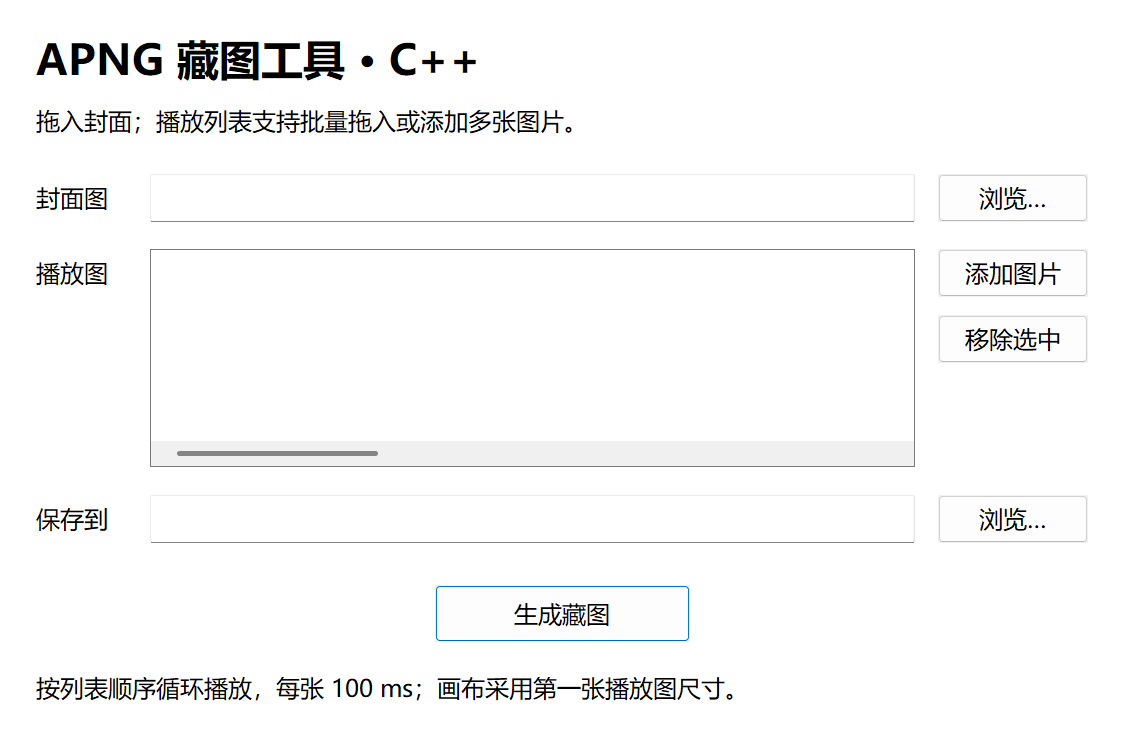
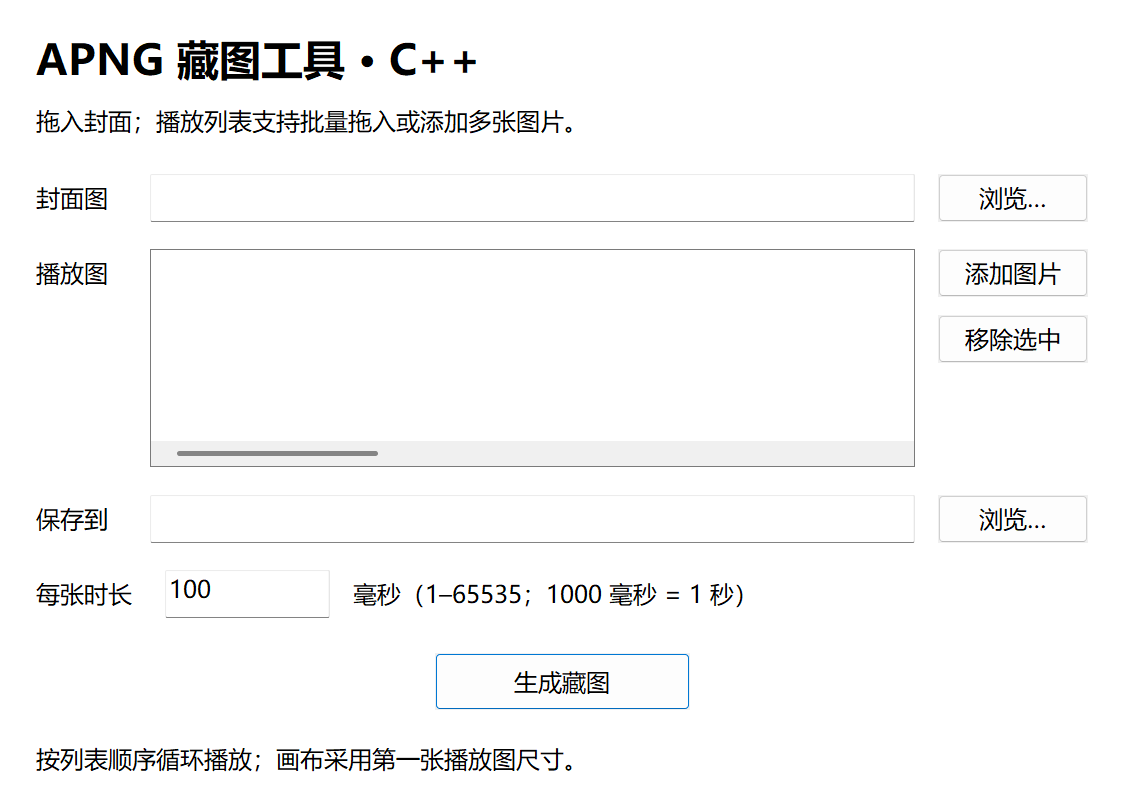
Allow configurable playback frame duration

diff --git a/cpp/main.cpp b/cpp/main.cpp
@@ -165,10 +165,10 @@ static void chunk(Bytes& out, const char* type, const Bytes& data) {
     }
     add32(out, crc ^ 0xffffffff);
 }
-static void control(Bytes& out, uint32_t& sequence, UINT w, UINT h, BYTE blend) {
+static void control(Bytes& out, uint32_t& sequence, UINT w, UINT h, BYTE blend, unsigned delayMs) {
     Bytes data;
     for (uint32_t n : {sequence++, w, h, 0u, 0u}) add32(data, n);
-    data.insert(data.end(), {0, 10, 0, 100, 0, blend});
+    data.insert(data.end(), {BYTE(delayMs >> 8), BYTE(delayMs), 3, 232, 0, blend});
     chunk(out, "fcTL", data);
 }
 static void frameData(Bytes& out, uint32_t& sequence, const Bytes& png) {
@@ -179,7 +179,7 @@ static void frameData(Bytes& out, uint32_t& sequence, const Bytes& png) {
         chunk(out, "fdAT", data);
     }
 }
-static void generate(const std::wstring& coverPath, const std::vector<std::wstring>& hiddenPaths, const std::wstring& outputPath) {
+static void generate(const std::wstring& coverPath, const std::vector<std::wstring>& hiddenPaths, const std::wstring& outputPath, unsigned delayMs = 100) {
     if (_wcsicmp(fs::path(outputPath).extension().c_str(), L".png") != 0)
         throw std::runtime_error("Output filename must end in .png.");
     Com<IWICImagingFactory> factory;
@@ -195,15 +195,15 @@ static void generate(const std::wstring& coverPath, const std::vector<std::wstri
     chunk(out, "acTL", animation);
     chunk(out, "IDAT", pngData(factory.p, cover));
     uint32_t sequence = 0;
-    control(out, sequence, hidden.width, hidden.height, 0);
+    control(out, sequence, hidden.width, hidden.height, 0, delayMs);
     frameData(out, sequence, pngData(factory.p, hidden));
     for (size_t i = 1; i < hiddenPaths.size(); ++i) {
         auto next = fit(factory.p, load(factory.p, hiddenPaths[i]), hidden.width, hidden.height);
-        control(out, sequence, hidden.width, hidden.height, 0);
+        control(out, sequence, hidden.width, hidden.height, 0, delayMs);
         frameData(out, sequence, pngData(factory.p, next));
     }
     if (hiddenPaths.size() == 1) {
-        control(out, sequence, 1, 1, 1);
+        control(out, sequence, 1, 1, 1, delayMs);
         frameData(out, sequence, pngData(factory.p, Image{1, 1, Bytes(4, 0)}));
     }
     chunk(out, "IEND", {});
@@ -220,7 +220,15 @@ static void generate(const std::wstring& coverPath, const std::vector<std::wstri
     if (!ok || written != out.size()) throw std::runtime_error("Could not write the complete PNG file.");
 }
 
-static HWND inputs[3], statusLabel;
+static unsigned parseDelay(const std::wstring& value) {
+    if (value.empty() || value.size() > 5 || value.find_first_not_of(L"0123456789") != std::wstring::npos)
+        throw std::runtime_error("Frame duration must be an integer from 1 to 65535 ms.");
+    unsigned delay = static_cast<unsigned>(std::stoul(value));
+    if (delay < 1 || delay > 65535) throw std::runtime_error("Frame duration must be from 1 to 65535 ms.");
+    return delay;
+}
+
+static HWND inputs[3], statusLabel, durationInput;
 static std::vector<std::wstring> playbackPaths;
 static HFONT font, heading;
 static HINSTANCE instance;
@@ -315,8 +323,12 @@ static LRESULT CALLBACK windowProc(HWND window, UINT msg, WPARAM wp, LPARAM lp) 
             control(window, L"BUTTON", i == 1 ? L"添加图片" : L"浏览…", WS_TABSTOP | BS_PUSHBUTTON, 100 + i, 625, y, 100, 32);
         }
         control(window, L"BUTTON", L"移除选中", WS_TABSTOP | BS_PUSHBUTTON, 103, 625, 210, 100, 32);
-        control(window, L"BUTTON", L"生成藏图", WS_TABSTOP | BS_DEFPUSHBUTTON, 110, 290, 390, 170, 38);
-        statusLabel = control(window, L"STATIC", L"按列表顺序循环播放，每张 100 ms；画布采用第一张播放图尺寸。", 0, 0, 24, 448, 710, 28);
+        control(window, L"STATIC", L"每张时长", 0, 0, 24, 385, 76, 24);
+        durationInput = control(window, L"EDIT", L"100", WS_TABSTOP | ES_NUMBER | ES_AUTOHSCROLL, 203, 110, 380, 110, 32);
+        SendMessageW(durationInput, EM_SETLIMITTEXT, 5, 0);
+        control(window, L"STATIC", L"毫秒（1–65535；1000 毫秒 = 1 秒）", 0, 0, 235, 385, 450, 24);
+        control(window, L"BUTTON", L"生成藏图", WS_TABSTOP | BS_DEFPUSHBUTTON, 110, 290, 435, 170, 38);
+        statusLabel = control(window, L"STATIC", L"按列表顺序循环播放；画布采用第一张播放图尺寸。", 0, 0, 24, 495, 710, 28);
         return 0;
     }
     if (msg == WM_COMMAND) {
@@ -336,9 +348,15 @@ static LRESULT CALLBACK windowProc(HWND window, UINT msg, WPARAM wp, LPARAM lp) 
             if (paths[0].empty() || playbackPaths.empty() || paths[2].empty()) {
                 MessageBoxW(window, L"请选择封面图、至少一张播放图和保存位置。", L"信息不完整", MB_OK | MB_ICONERROR); return 0;
             }
+            unsigned delayMs;
+            try { delayMs = parseDelay(text(durationInput)); }
+            catch (const std::exception&) {
+                MessageBoxW(window, L"每张时长请输入 1–65535 的整数，单位为毫秒。", L"时长无效", MB_OK | MB_ICONERROR);
+                SetFocus(durationInput); return 0;
+            }
             SetWindowTextW(statusLabel, L"正在生成，请稍候…"); UpdateWindow(window); SetCursor(LoadCursorW(nullptr, IDC_WAIT));
             try {
-                generate(paths[0], playbackPaths, paths[2]);
+                generate(paths[0], playbackPaths, paths[2], delayMs);
                 SetWindowTextW(statusLabel, L"生成完成。");
                 MessageBoxW(window, (L"已保存到：\n" + paths[2]).c_str(), L"生成完成", MB_OK | MB_ICONINFORMATION);
             } catch (const std::exception& e) {
@@ -362,8 +380,11 @@ int WINAPI wWinMain(HINSTANCE module, HINSTANCE, PWSTR, int show) {
     if (argc != 1) {
         int code = 0;
         try {
-            if (argc < 4) throw std::runtime_error("Usage: QQ-APNG-Disguise-CPP.exe cover frame1 [frame2 ...] output.png");
-            generate(argv[1], std::vector<std::wstring>(argv + 2, argv + argc - 1), argv[argc - 1]);
+            int first = 1;
+            unsigned delayMs = 100;
+            if (argc > 2 && std::wstring(argv[1]) == L"--delay-ms") { delayMs = parseDelay(argv[2]); first = 3; }
+            if (argc - first < 3) throw std::runtime_error("Usage: QQ-APNG-Disguise-CPP.exe [--delay-ms 100] cover frame1 [frame2 ...] output.png");
+            generate(argv[first], std::vector<std::wstring>(argv + first + 1, argv + argc - 1), argv[argc - 1], delayMs);
         } catch (const std::exception& e) { std::fprintf(stderr, "%s\n", e.what()); code = 1; }
         LocalFree(argv); CoUninitialize(); return code;
     }
@@ -380,7 +401,7 @@ int WINAPI wWinMain(HINSTANCE module, HINSTANCE, PWSTR, int show) {
     cls.hIcon = LoadIconW(module, MAKEINTRESOURCEW(1)); cls.hIconSm = cls.hIcon;
     RegisterClassExW(&cls);
     DWORD style = WS_OVERLAPPED | WS_CAPTION | WS_SYSMENU | WS_MINIMIZEBOX;
-    RECT size{0, 0, px(750), px(495)}; AdjustWindowRect(&size, style, FALSE);
+    RECT size{0, 0, px(750), px(540)}; AdjustWindowRect(&size, style, FALSE);
     HWND window = CreateWindowExW(0, cls.lpszClassName, L"APNG 藏图工具 · C++", style, CW_USEDEFAULT, CW_USEDEFAULT,
         size.right - size.left, size.bottom - size.top, nullptr, nullptr, module, nullptr);
     if (!window) { DeleteObject(font); DeleteObject(heading); CoUninitialize(); return 1; }
